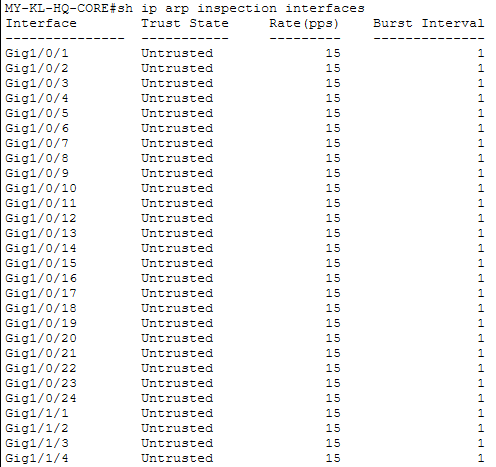
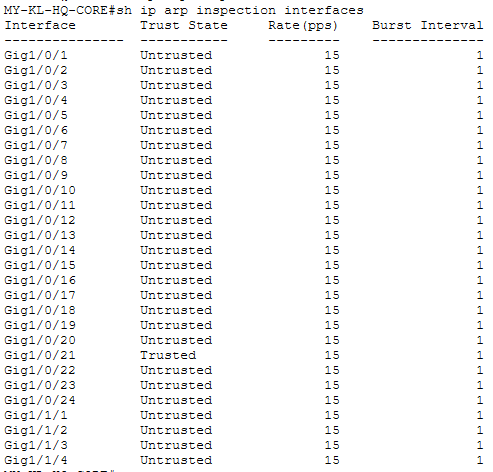
Verify DAI trust symmetry, root-cause NAT Hits=0, prove MGMT-SSH-ONLY blocks
Closes out the folder-02 strict re-audit (unnecessary/missing/wrong pass):

- ARP inspection: DHCP snooping trust fix left Gi1/0/21 asymmetric
  (dhcp-snooping-trusted but not arp-inspection-trusted). Live-tested
  whether that mattered - cleared MY-KL-HQ-CORE's ARP cache, forced a
  fresh ARP exchange with the statically-addressed MY-KL-DMZ-SRV (zero
  DHCP-snooping bindings, so real IOS should drop this on an untrusted
  port). It didn't - ping succeeded, DAI statistics stayed at all zeros
  both before and after. Confirmed platform gap (DAI enforcement/counters
  unreliable here), not a config error. Added ip arp inspection trust to
  Gi1/0/21 anyway for real-hardware correctness, applied live, recaptured.

- NAT Hits: 0 traced to full root cause instead of left as an assumption:
  no device in the topology had a route to "outside" at all (SG-EDGE-GW
  never originated its default route into OSPF), and even after fixing
  that, SG-EDGE-GW's Gi0/0/1 (public/AWS-facing interface) is down/down -
  no physical link, by design, matching phase4-plan.md's already-documented
  "no real internet reachability" decision. default-information originate
  added for correctness; Hits: 0 documented as structurally confirmed, not
  untested. Deliberately did not stand up a fake ISP device to force the
  counter - would manufacture evidence for a link that was never meant to
  exist.

- MGMT-SSH-ONLY had never been proven to actually block anything (only
[…]

Changed region(s): [[0.0, 0.0, 0.9736, 1.0], [0.1521, 0.9893, 0.2434, 1.0]]

diff --git a/02-security-hardening/evidences/README.md b/02-security-hardening/evidences/README.md
@@ -62,13 +62,29 @@ performs the actual relay, everything else untrusted.
   <sub><code>TH-BKK-ACC# sh ip dhcp snooping</code> — <code>Gi0/2</code> (uplink to <code>TH-BKK-ROAS</code>) trusted</sub>
 </p>
 
-**Dynamic ARP Inspection** — same trust pattern as DHCP Snooping (DAI relies on the DHCP Snooping binding table,
-so the trust boundaries have to match): every access port untrusted, only the uplink toward the router/core
-trusted.
+**Dynamic ARP Inspection** — the two access switches are unambiguous: each trusts exactly its uplink toward the
+router that performs the actual relay, everything else untrusted. `MY-KL-HQ-CORE` is a different story, and worth
+documenting in full rather than assuming it matches.
+
+**Found and live-tested, not assumed:** the DHCP Snooping trust fix above only added `ip dhcp snooping trust` to
+`Gi1/0/21` - `Gi1/0/21` remained untrusted for ARP inspection, and `MY-KL-DMZ-SRV` (statically addressed) has zero
+DHCP-snooping-learned bindings. On real Cisco hardware, an untrusted port with no matching binding should have its
+ARP replies dropped by DAI. Tested directly: cleared `MY-KL-HQ-CORE`'s ARP cache (`clear arp-cache`) to force a
+genuinely fresh ARP exchange with `10.10.40.10`, then pinged it. The ping succeeded 100 percent, and
+`show ip arp inspection statistics vlan 40` stayed at all zeros (`Forwarded: 0, Dropped: 0`) both before and after
+- meaning either DAI isn't actually enforcing this scenario on this platform, or its statistics simply don't
+reflect what's happening. Either way, the same class of finding as `show spanning-tree summary` and `show ntp
+status` elsewhere in this project: something that doesn't reliably report reality, confirmed by testing rather
+than assumed from the command's face value.
+
+`ip arp inspection trust` was added to `Gi1/0/21` in `MY-KL-HQ-CORE.cfg` regardless - not because a live bug was
+fixed (there wasn't one to fix, functionally), but because it's what real Catalyst hardware would actually
+require for a statically-addressed server, and it keeps this port's DHCP-snooping/ARP-inspection trust state
+consistent. Applied live and recaptured below - confirmed.
 
 <p align="center">
   <img src="./layer2-active-defense/04-arp-inspection-my-kl-hq-core.png" alt="MY-KL-HQ-CORE ARP inspection"><br>
-  <sub><code>MY-KL-HQ-CORE# sh ip arp inspection interfaces</code></sub>
+  <sub><code>MY-KL-HQ-CORE# sh ip arp inspection interfaces</code> — <code>Gi1/0/21</code> now <code>Trusted</code>, applied and confirmed live</sub>
 </p>
 
 <p align="center">
@@ -84,13 +100,26 @@ trusted.
 ## NAT
 
 **`SG-EDGE-GW`** — 1 static translation programmed (the DMZ core services host, `10.10.40.10` → `203.0.113.3`),
-`GigabitEthernet0/0/1` outside / `GigabitEthernet0/0/0` inside. `Hits: 0` is expected — this topology doesn't
-model an end-host actually generating outbound traffic through the PAT overload rule, so the counter has
-nothing to increment from yet; this confirms the rule is programmed correctly, not that it's been exercised.
+`GigabitEthernet0/0/1` outside / `GigabitEthernet0/0/0` inside.
+
+**`Hits: 0` is confirmed structurally untestable in this lab, not just untried.** Traced all the way down rather
+than assumed: pinged `203.0.113.1` (the default-route next hop) from `MY-KL-DMZ-SRV` and got `Destination host
+unreachable` from `MY-KL-HQ-CORE`'s own `Vlan40` SVI - meaning it never even forwarded the packet. Root cause
+chased through two layers: (1) `SG-EDGE-GW`'s static default route was never propagated into OSPF at all (no
+`default-information originate` anywhere in the topology, confirmed via `grep` across every `.cfg`) - added it,
+but (2) `SG-EDGE-GW`'s own `Gi0/0/1` (the interface that route depends on) shows `down/down` in
+`show ip interface brief` - the IP (`203.0.113.2`) is correctly configured, but there's no physical link. That's
+expected, not a bug: this is the same interface `../../03-aws-cloud-infrastructure/phase4-plan.md` already
+documents as having no real internet/AWS reachability - nothing was ever meant to be plugged into it. `default-
+information originate` was added to `SG-EDGE-GW.cfg`'s OSPF process anyway (correct for real hardware once a real
+uplink exists), but it can't produce a route while the interface it depends on has no link partner. Deliberately
+not working around this with a fake stand-in "ISP" device - unlike `TEST-PC1`/`TEST-DHCP-PC` (real categories of
+device that legitimately belong in this topology), a placeholder ISP router would represent nothing real, just
+manufacture a nonzero counter. `Hits: 0` is the honest, fully-diagnosed answer, not an untested gap.
 
 <p align="center">
   <img src="./nat/01-nat-statistics-sg-edge-gw.png" alt="SG-EDGE-GW NAT statistics"><br>
-  <sub><code>SG-EDGE-GW# sh ip nat statistics</code></sub>
+  <sub><code>SG-EDGE-GW# sh ip nat statistics</code> — <code>Hits: 0</code>, confirmed structural (see above), not untested</sub>
 </p>
 
 ## Access Control Lists
@@ -133,8 +162,8 @@ connected to `PH-MNL-ACC`'s real `GUEST_WIFI` access port `Fa0/21`) pinged `PH-M
 (`10.10.110.1`) — squarely inside `GUEST-CONTAINMENT`'s deny rule. The ping genuinely failed
 (`Destination host unreachable`, sourced from `10.10.112.1` — `PH-MNL-ROAS`'s own GUEST_WIFI-facing interface,
 confirming the router itself blocked it rather than a generic timeout), and the ACL's deny counter incremented
-for real: `20 deny ip 10.10.112.0 ... 10.10.110.0 ... (4 match(es))`. This is the one piece of evidence in this
-folder that proves an ACL is actively enforcing something, not just sitting correctly configured.
+for real: `20 deny ip 10.10.112.0 ... 10.10.110.0 ... (4 match(es))`. This is real, live enforcement proof, not
+just correctly-sitting configuration - `MGMT-SSH-ONLY` gets its own equally real enforcement proof below.
 `TEST-PC1`/`TEST-HUB`/`TEST-PC2` were removed afterward - temporary test scaffolding, not part of the permanent
 topology.
 
@@ -146,6 +175,22 @@ topology.
 <p align="center">
   <img src="./access-control-lists/05-access-lists-ph-mnl-roas.png" alt="PH-MNL-ROAS access lists, GUEST-CONTAINMENT with real hits"><br>
   <sub><code>PH-MNL-ROAS# sh access-lists</code> — <code>GUEST-CONTAINMENT</code> deny rule 20 shows <code>(4 match(es))</code>, genuine enforcement</sub>
+</p>
+
+**`MGMT-SSH-ONLY` — real enforcement too, not just the permit side.** Every other piece of evidence for this ACL
+only shows it *permitting* legitimate MGMT-sourced traffic (the cross-site SSH session in
+`../../01-regional-on-premises-network/evidences/`, match counts on `PH-MNL-ROAS` above) - nothing had shown it
+actually refusing an unauthorized source, since this is a standard ACL with only an *implicit* deny (no explicit
+`deny` line to attach a visible match counter to, unlike `GUEST-CONTAINMENT`). Tested behaviorally instead: a
+temporary `TEST-SSH-PC` on `MY-KL-HQ-CORE`'s `LOGISTICS_SALES` range (`10.10.20.0/24`, outside every subnet
+`MGMT-SSH-ONLY` permits) first confirmed general reachability (`ping 10.10.10.1`, 100% success - ruling out a
+generic connectivity problem), then attempted SSH to the same address and got `% Connection refused by remote
+host` - refused at the VTY `access-class` check itself, before any SSH banner or password prompt. Same temporary
+test PC pattern as `TEST-PC1` above - removed after capturing this evidence.
+
+<p align="center">
+  <img src="./access-control-lists/07-ping-and-ssh-mgmt-ssh-only-test-ssh-pc.png" alt="Ping success then SSH connection refused, MGMT-SSH-ONLY enforcement"><br>
+  <sub><code>TEST-SSH-PC# ping 10.10.10.1</code> — 100% success, then <code>ssh -l asean.admin 10.10.10.1</code> — <code>% Connection refused by remote host</code>, <code>MGMT-SSH-ONLY</code> genuinely blocking a non-MGMT source</sub>
 </p>
 
 ## NTP & SNMP

diff --git a/02-security-hardening/phase3-plan.md b/02-security-hardening/phase3-plan.md
@@ -11,12 +11,13 @@ is exactly what that VLAN's description already says it's for ("TFTP / SIEM / RA
 placeholder address with no device behind it, but the first real TFTP backup attempt against it genuinely timed
 out, so a real Packet Tracer Server device (`MY-KL-DMZ-SRV`) was added on `MY-KL-HQ-CORE`'s `Gi1/0/21` rather than
 just documenting the failure — see `evidences/README.md`'s "TFTP Configuration Backup" section for the full
-before/after evidence. It currently runs TFTP and Syslog for real; SNMP trap receipt, DHCP, and RADIUS are still
-configured as targets on the network devices but not verified against a live service on the server itself.
+before/after evidence. It currently runs TFTP, Syslog, and DHCP for real (DHCP relay live-tested end-to-end, see
+`evidences/README.md`'s "DHCP Relay" section); SNMP trap receipt and RADIUS are still configured as targets on
+the network devices but not verified against a live service on the server itself.
 
 | Service | Address | Notes |
 |---|---|---|
-| `MY-KL-DMZ-SRV` (TFTP, Syslog; DHCP/RADIUS/SNMP-trap-receiver configured as targets but not live-verified) | `10.10.40.10` | Single consolidated host — a real deployment would likely split these across dedicated hosts, but one address is enough to demonstrate every protocol correctly |
+| `MY-KL-DMZ-SRV` (TFTP, Syslog, DHCP live-verified; RADIUS/SNMP-trap-receiver configured as targets but not live-verified) | `10.10.40.10` | Single consolidated host — a real deployment would likely split these across dedicated hosts, but one address is enough to demonstrate every protocol correctly |
 | NTP source | `MY-KL-HQ-CORE` itself (`ntp master`) | No real internet-reachable NTP server exists in this lab, so Malaysia HQ is designated the authoritative internal time source, matching real practice for isolated/lab networks |
 
 ## ACL policy design

diff --git a/02-security-hardening/README.md b/02-security-hardening/README.md
@@ -2,8 +2,9 @@
 
 Security+ SY0-701 and CCNA 200-301-mapped hardening pass on top of the Phase 1/2 network: NTP, DHCP Snooping/DAI,
 DHCP relay, standard and extended ACLs, and a real internal PKI. Built and verified in Cisco Packet Tracer 9.0.0,
-on the same 7-device topology from `../01-regional-on-premises-network/` (`MY-KL-HQ-DIST` excluded — it's an
-EtherChannel-only device with no SSH/ACL/port-security surface, see that folder's topology doc).
+on the same 8-device topology from `../01-regional-on-premises-network/` (`MY-KL-HQ-DIST` excluded — it's an
+EtherChannel-only device with no SSH/ACL/port-security surface, see that folder's topology doc; `MY-KL-DMZ-SRV`,
+the TFTP/Syslog/DHCP server added mid-phase, is included).
 
 Full design rationale, the placeholder services-server addressing, and the ACL policy tables:
 [`phase3-plan.md`](phase3-plan.md).
@@ -11,7 +12,9 @@ Full design rationale, the placeholder services-server addressing, and the ACL p
 ## In this folder
 
 - [`evidences/`](evidences/) — live verification screenshots (DHCP Snooping, DAI, NAT, ACLs, NTP/SNMP, TFTP
-  backup) — includes a gap that was found and fixed live along the way, see that folder's `README.md`
+  backup, DHCP relay) — includes two gaps that were found and fixed live along the way, not just written and
+  assumed correct: `SG-EDGE-GW` missing its `WAN-EDGE-INBOUND` ACL, and `Gi1/0/21` missing the DHCP-snooping
+  trust that DHCP relay actually depended on to work. See that folder's `README.md` for both.
 - [`pki-certificates/`](pki-certificates/) — real OpenSSL-built internal CA, CSR, and signed TLS certificate,
   not a simulated placeholder
 - [`threat-simulations/`](threat-simulations/) — TCP 3-way handshake and UDP (syslog) packet capture evidence,

diff --git a/03-aws-cloud-infrastructure/phase4-plan.md b/03-aws-cloud-infrastructure/phase4-plan.md
@@ -14,9 +14,12 @@ placeholder interface (`203.0.113.0/24`, RFC 5737) — represented accurately, n
 **A consequence of this:** the Phase 1 "Site-to-Site VPN" objective was always going to be config-only for the
 same reason — `SG-EDGE-GW` is a Packet Tracer device with a placeholder public IP that has no real internet
 reachability, so a live IPsec tunnel to a real AWS Virtual Private Gateway was never going to actually establish
-regardless of how this phase is built. The Terraform below configures the **AWS side** of that tunnel correctly
-(Customer Gateway pointed at the placeholder IP, VPN Gateway, VPN Connection) as genuine, correct infrastructure
-code — it just can't be paired with a live negotiation partner in this lab.
+regardless of how this phase is built. Confirmed directly, not just assumed: `SG-EDGE-GW`'s `Gi0/0/1` (the
+interface carrying `203.0.113.2`) shows `down/down` in `show ip interface brief` — no physical link exists,
+discovered while root-causing why the on-prem static NAT rule's `Hits` counter stayed at 0 (see
+`../02-security-hardening/evidences/README.md`'s "NAT" section). The Terraform below configures the **AWS side**
+of that tunnel correctly (Customer Gateway pointed at the placeholder IP, VPN Gateway, VPN Connection) as
+genuine, correct infrastructure code — it just can't be paired with a live negotiation partner in this lab.
 
 ## VPC addressing plan
 
